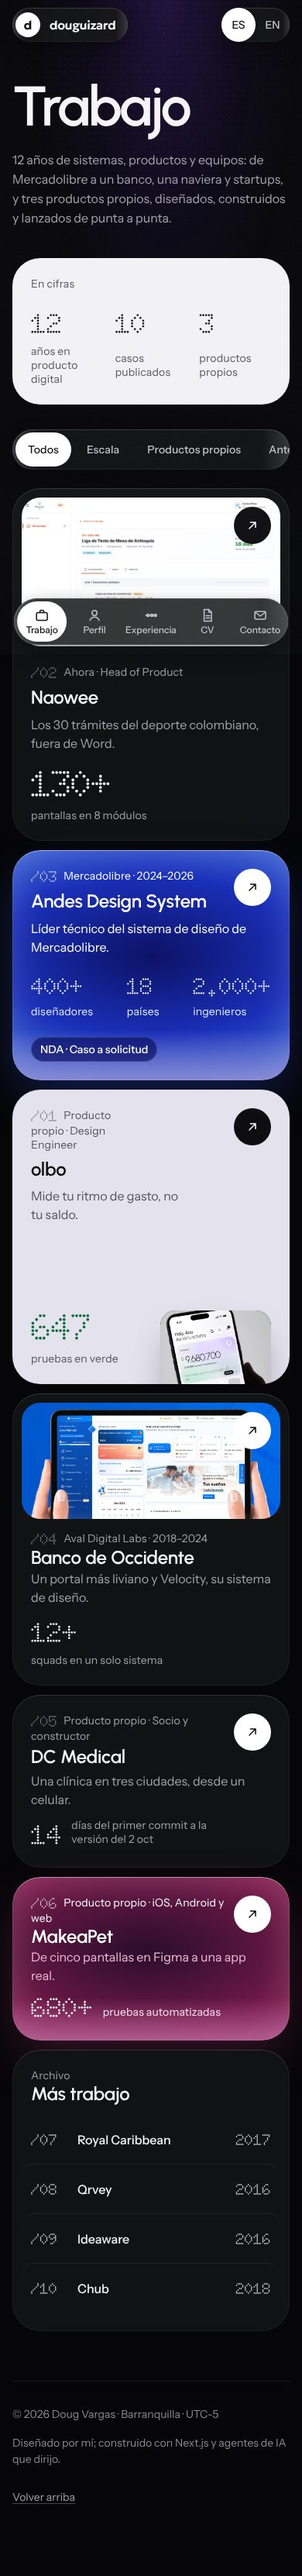
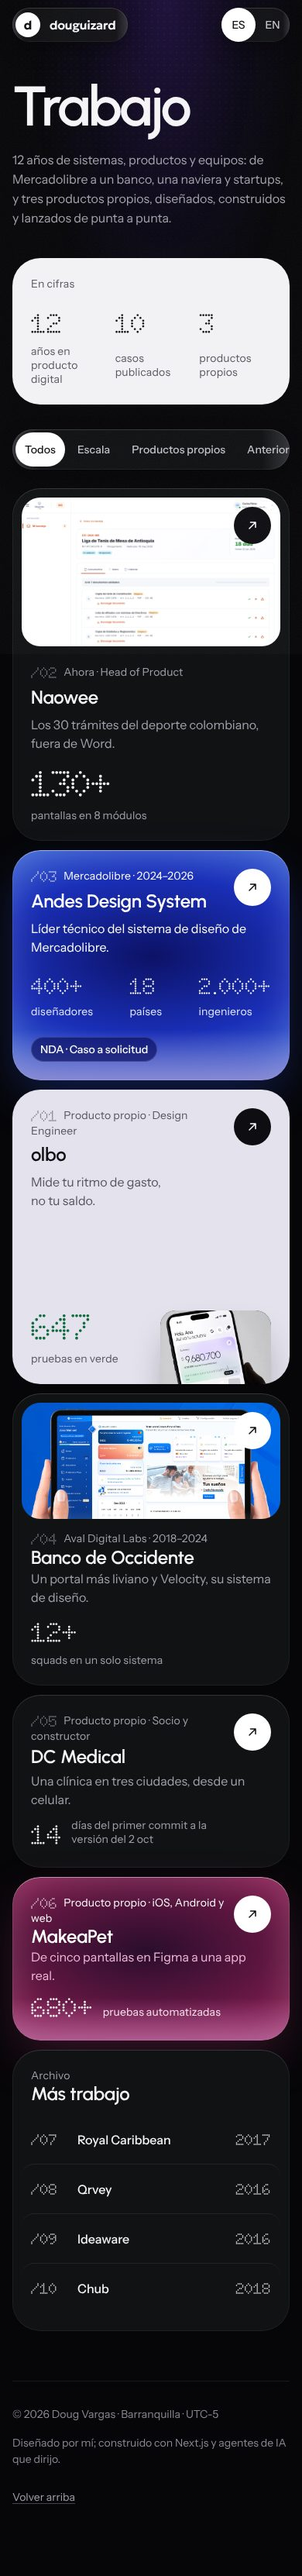
docs(rediseno): páginas internas B (Trabajo, caso, Perfil, Experiencia) y ESTADO al día
Claude-Session: https://claude.ai/code/session_0115FVoACEbMEVHhAnRs4Nt5

diff --git a/docs/rediseno-2026/propuestas/B/index.html b/docs/rediseno-2026/propuestas/B/index.html
@@ -141,6 +141,8 @@ body::after {
 .dot { font-family: var(--f-dot); font-variation-settings: "ROND" 100, "wght" var(--dw); font-weight: 700;
   font-variant-numeric: tabular-nums; letter-spacing: -0.04em; line-height: 1; transition: --dw var(--d-hover) var(--ease-out); }
 .dot-xl { font-size: var(--t-72); letter-spacing: -0.06em; }
+.dot .punto { position: relative; display: inline-block; width: .32em; -webkit-text-fill-color: transparent; }
+.dot .punto::after { content: ""; position: absolute; left: .1em; bottom: .17em; width: .1em; height: .1em; border-radius: 50%; background: currentColor; }
 .dot-l  { font-size: var(--t-48); }
 .dot-m  { font-size: var(--t-30); letter-spacing: -0.03em; }
 .dot-s  { font-size: var(--t-24); letter-spacing: -0.03em; }
@@ -1132,6 +1134,9 @@ html.rm .hoja.abierta .hoja-panel { opacity: 1; }
     document.title = META[lang].title; $('meta[name="description"]').content = META[lang].desc;
     $(".k15").setAttribute("aria-roledescription", lang === "en" ? "carousel" : "carrusel");
     pintarCita(); reloj(); contarCarrusel();
+    // el punto de miles de Doto tiene cola y se lee como coma: se dibuja un punto redondo (el «.» real queda en el texto)
+    $$(".dot").forEach((el) => { if (el.children.length || !/\.\d/.test(el.textContent)) return;
+      el.innerHTML = el.textContent.replace(/\.(?=\d)/g, '<span class="punto">.</span>'); });
     if (push) history.replaceState(history.state, "", lang === "en" ? "?lang=en" + location.hash : location.pathname + location.hash);
     if (window.ScrollTrigger) requestAnimationFrame(() => ScrollTrigger.refresh());
   }

diff --git a/docs/rediseno-2026/propuestas/B-paginas/about.html b/docs/rediseno-2026/propuestas/B-paginas/about.html
@@ -109,7 +109,7 @@ body::after { content: ""; position: fixed; inset: 0; z-index: 60; pointer-event
 .dot { font-family: var(--f-dot); font-variation-settings: "ROND" 100, "wght" var(--dw); font-weight: 700; font-variant-numeric: tabular-nums;
   letter-spacing: -0.04em; line-height: 1; transition: --dw var(--d-hover) var(--ease-out); }
 .dot .punto { position: relative; display: inline-block; width: .32em; -webkit-text-fill-color: transparent; }
-.dot .punto::after { content: ""; position: absolute; left: .1em; bottom: .02em; width: .11em; height: .11em; border-radius: 50%; background: currentColor; }
+.dot .punto::after { content: ""; position: absolute; left: .1em; bottom: .17em; width: .1em; height: .1em; border-radius: 50%; background: currentColor; }
 .dot-gigante { font-size: var(--t-120); letter-spacing: -0.06em; }
 .dot-xl { font-size: var(--t-72); letter-spacing: -0.06em; }
 .dot-l  { font-size: var(--t-48); }

diff --git a/docs/rediseno-2026/propuestas/B-paginas/caso.html b/docs/rediseno-2026/propuestas/B-paginas/caso.html
@@ -109,7 +109,7 @@ body::after { content: ""; position: fixed; inset: 0; z-index: 60; pointer-event
 .dot { font-family: var(--f-dot); font-variation-settings: "ROND" 100, "wght" var(--dw); font-weight: 700; font-variant-numeric: tabular-nums;
   letter-spacing: -0.04em; line-height: 1; transition: --dw var(--d-hover) var(--ease-out); }
 .dot .punto { position: relative; display: inline-block; width: .32em; -webkit-text-fill-color: transparent; }
-.dot .punto::after { content: ""; position: absolute; left: .1em; bottom: .02em; width: .11em; height: .11em; border-radius: 50%; background: currentColor; }
+.dot .punto::after { content: ""; position: absolute; left: .1em; bottom: .17em; width: .1em; height: .1em; border-radius: 50%; background: currentColor; }
 .dot-gigante { font-size: var(--t-120); letter-spacing: -0.06em; }
 .dot-xl { font-size: var(--t-72); letter-spacing: -0.06em; }
 .dot-l  { font-size: var(--t-48); }

diff --git a/docs/rediseno-2026/propuestas/B-paginas/experience.html b/docs/rediseno-2026/propuestas/B-paginas/experience.html
@@ -109,7 +109,7 @@ body::after { content: ""; position: fixed; inset: 0; z-index: 60; pointer-event
 .dot { font-family: var(--f-dot); font-variation-settings: "ROND" 100, "wght" var(--dw); font-weight: 700; font-variant-numeric: tabular-nums;
   letter-spacing: -0.04em; line-height: 1; transition: --dw var(--d-hover) var(--ease-out); }
 .dot .punto { position: relative; display: inline-block; width: .32em; -webkit-text-fill-color: transparent; }
-.dot .punto::after { content: ""; position: absolute; left: .1em; bottom: .02em; width: .11em; height: .11em; border-radius: 50%; background: currentColor; }
+.dot .punto::after { content: ""; position: absolute; left: .1em; bottom: .17em; width: .1em; height: .1em; border-radius: 50%; background: currentColor; }
 .dot-gigante { font-size: var(--t-120); letter-spacing: -0.06em; }
 .dot-xl { font-size: var(--t-72); letter-spacing: -0.06em; }
 .dot-l  { font-size: var(--t-48); }

diff --git a/docs/rediseno-2026/propuestas/B-paginas/work.html b/docs/rediseno-2026/propuestas/B-paginas/work.html
@@ -109,7 +109,7 @@ body::after { content: ""; position: fixed; inset: 0; z-index: 60; pointer-event
 .dot { font-family: var(--f-dot); font-variation-settings: "ROND" 100, "wght" var(--dw); font-weight: 700; font-variant-numeric: tabular-nums;
   letter-spacing: -0.04em; line-height: 1; transition: --dw var(--d-hover) var(--ease-out); }
 .dot .punto { position: relative; display: inline-block; width: .32em; -webkit-text-fill-color: transparent; }
-.dot .punto::after { content: ""; position: absolute; left: .1em; bottom: .02em; width: .11em; height: .11em; border-radius: 50%; background: currentColor; }
+.dot .punto::after { content: ""; position: absolute; left: .1em; bottom: .17em; width: .1em; height: .1em; border-radius: 50%; background: currentColor; }
 .dot-gigante { font-size: var(--t-120); letter-spacing: -0.06em; }
 .dot-xl { font-size: var(--t-72); letter-spacing: -0.06em; }
 .dot-l  { font-size: var(--t-48); }

diff --git a/docs/rediseno-2026/ESTADO.md b/docs/rediseno-2026/ESTADO.md
@@ -29,22 +29,21 @@
 - **Experiencia:** motion graphics que cuentan los años como línea de tiempo (maqueta en `propuestas/B-paginas/`).
 - Casos: hoja sobre el tablero **con URL real** (rutas interceptadas `@modal/(.)work/[slug]` + página completa).
 
-## Estado (6 nov 2026, 00:30 UTC)
+## Estado (6 nov 2026)
 
 | Bloque | Estado | Dónde |
 |---|---|---|
 | Brief, fundamentos, UX, técnica, copy | ✓ | `00`–`04` |
 | Propuestas A/B, críticas, comparación | ✓ | `propuestas/A`, `propuestas/B`, `05`, `06-CRITICA-*` |
 | Lockups del nombre | ✓ (elegido 4) | `propuestas/B-tipo/` |
-| Páginas internas (Trabajo, caso, Perfil, Experiencia) | maquetas y capturas ✓; NOTAS y corrección «~1.200» en cierre; **falta crítica** | `propuestas/B-paginas/` |
+| Páginas internas (Trabajo, caso, Perfil, Experiencia) | maquetas, capturas y NOTAS ✓ (mostradas a Doug, sin respuesta aún); **falta crítica** | `propuestas/B-paginas/` |
 | Plan de implementación (revisado contra el código) | ✓ | `07-PLAN-IMPLEMENTACION.md` |
-| **F0** base técnica | upgrade next 16.4.5 / react 19.3.1 / gsap aplicado (lint, tsc, build ✓; 2 corridas Playwright previas 267/267 ✓); falta Playwright post-upgrade, diff de capturas, perf y `F0-INFORME.md` | repo + `baseline-F0.json` |
+| **F0** base técnica | ✓ next 16.4.5 · react 19.3.1 · gsap 3.15.1 · sharp; vitest 149/149, Playwright 269/269; LCP / móvil 4.456 ms, escritorio 1.576 ms, JS 157,6 KB gz | `F0-INFORME.md`, `baseline-F0.json` |
 | F1–F8 | pendiente | `07` §2 |
 
 ## Siguiente (en orden)
 
-1. Cerrar F0 (si `F0-INFORME.md` no existe: sesión nueva de ejecución F0 que corra Playwright post-upgrade, diff de
-   capturas, perf, informe).
+1. ~~Cerrar F0~~ ✓
 2. Crítica de las páginas internas (sesión nueva: crítico con refactoring-ui + web-design-guidelines, mismo formato
    que `06-CRITICA-B.md`) → sesión del diseñador que aplica P0/P1 → mostrar a Doug.
 3. Actualizar `07` con las páginas internas aprobadas (F2/F7) y el lockup «corte láser» (F1 `NameLockup`).

diff --git a/docs/rediseno-2026/propuestas/B-paginas/NOTAS.md b/docs/rediseno-2026/propuestas/B-paginas/NOTAS.md
@@ -197,3 +197,14 @@ Hay que servir la **raíz del repo** (`python3 -m http.server` en `/home/user/do
 
 En todas las capturas cargaron Urbanist, Instrument Sans, Doto y Geologica (estado `loaded`), sin desborde horizontal
 ni errores de consola. Se esperó a que no hubiera ninguna corrida de Playwright del ejecutor de F0.
+
+## 6. Corrección del punto de miles en Doto (6 nov)
+
+En el subconjunto de Doto, el glifo «.» tiene cola y se lee como coma: «~1.200» se veía como «~1,200» en ES. El texto
+siempre fue correcto. Ahora `puntosDoto()` envuelve el «.» de miles de cada cifra Doto en un `span.punto`. El glifo
+queda transparente y un `::after` dibuja un solo punto redondo, del tamaño de los de la matriz, sobre la línea base.
+El «.» real sigue en el texto, así que copiar y los lectores de pantalla no cambian. Se aplica después de cada cambio
+de idioma; el EN usa coma y no se toca.
+
+El mismo arreglo (unas líneas de CSS y JS) se aplicó en `propuestas/B/index.html`, donde K4 mostraba «2.000+» como
+«2,000+». Las capturas `shot_B_*` de B no se regeneraron.
